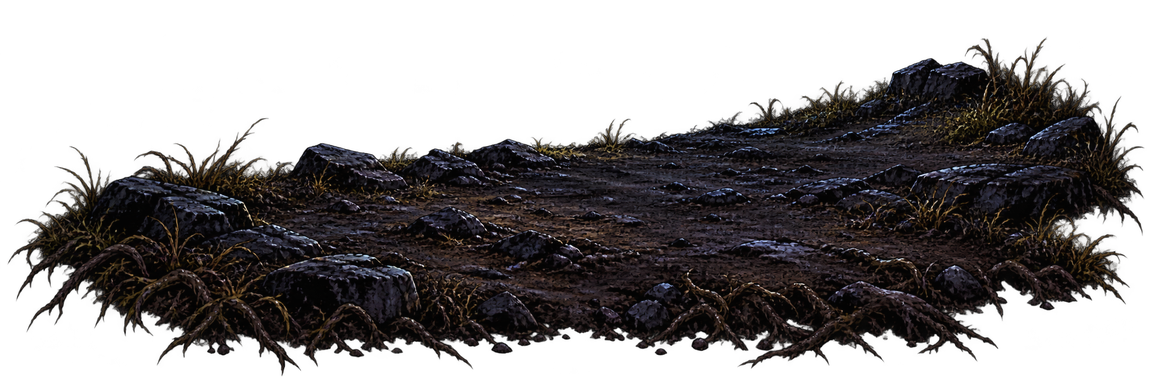
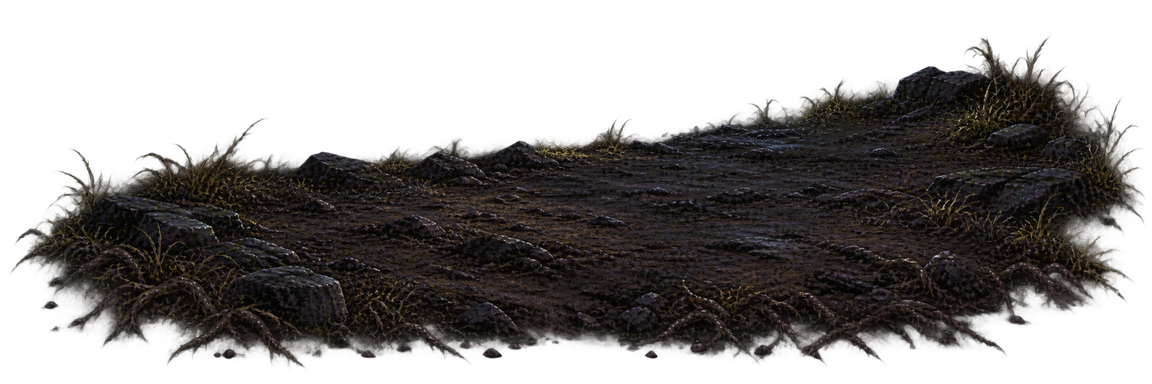
Soften Mortimer ground contrast and blend it into the cemetery

Changed region(s): [[0.0, 0.0938, 1.0, 0.9688]]

diff --git a/web/animation-lab/style.css b/web/animation-lab/style.css
@@ -9,7 +9,7 @@
 /* A fixed 2:3 actor box keeps the sprite's soles on the same ground plane. */
 .mortimer-actor{position:absolute;left:0;bottom:8%;width:23%;aspect-ratio:2/3;z-index:0;pointer-events:none}
 .mortimer-actor .mortimer{position:relative;display:block;left:auto;bottom:auto;width:100%;height:100%;object-position:center bottom;transform-origin:50% 100%;z-index:2}
-.mortimer-ground{position:absolute;left:-6%;bottom:-12%;width:118%;height:auto;z-index:0}
+.mortimer-ground{position:absolute;left:-6%;bottom:-12%;width:118%;height:auto;z-index:0;opacity:.82;filter:saturate(.65) contrast(.72) brightness(.75) blur(.25px);mask-image:radial-gradient(ellipse 66% 64% at 53% 39%,#000 40%,#000b 64%,transparent 100%)}
 .mortimer-contact{position:absolute;inset:0;z-index:1;--left-x:40%;--left-y:1%;--right-x:67%;--right-y:3%}
 .mortimer-contact:before,.mortimer-contact:after{content:"";position:absolute;height:2%;background:radial-gradient(ellipse,#060707e6 10%,#06070780 45%,transparent 75%);transform:rotate(-5deg)}
 .mortimer-contact:before{left:var(--left-x);bottom:var(--left-y);width:17%}

diff --git a/docs/ART.md b/docs/ART.md
@@ -85,6 +85,10 @@ Workflow `Art verification` повторяет сборку и проверку 
 к подошвам. Под каждой позой используются контактные тени; idle-анимация больше
 не поднимает персонажа. Промпт нового слоя — `assets/grounding-prompt-20261021.txt`,
 исходник и SHA-256 включены в `assets/sources.json`.
+После замечания о контрасте слой земли переработан: приглушены холодные блики,
+смягчены камни и передняя кромка. В стенде локальный контраст и насыщенность
+снижены, а края плавно смешиваются с фоном. Промпт правки сохранён в
+`assets/grounding-contrast-prompt-20261021.txt`.
 
 1. Использовать `assets/manifest.json` как реестр путей; не переименовывать символы.
 2. Вращение использует symbols_blur, остановка — symbols. Исходы берутся из книг.
